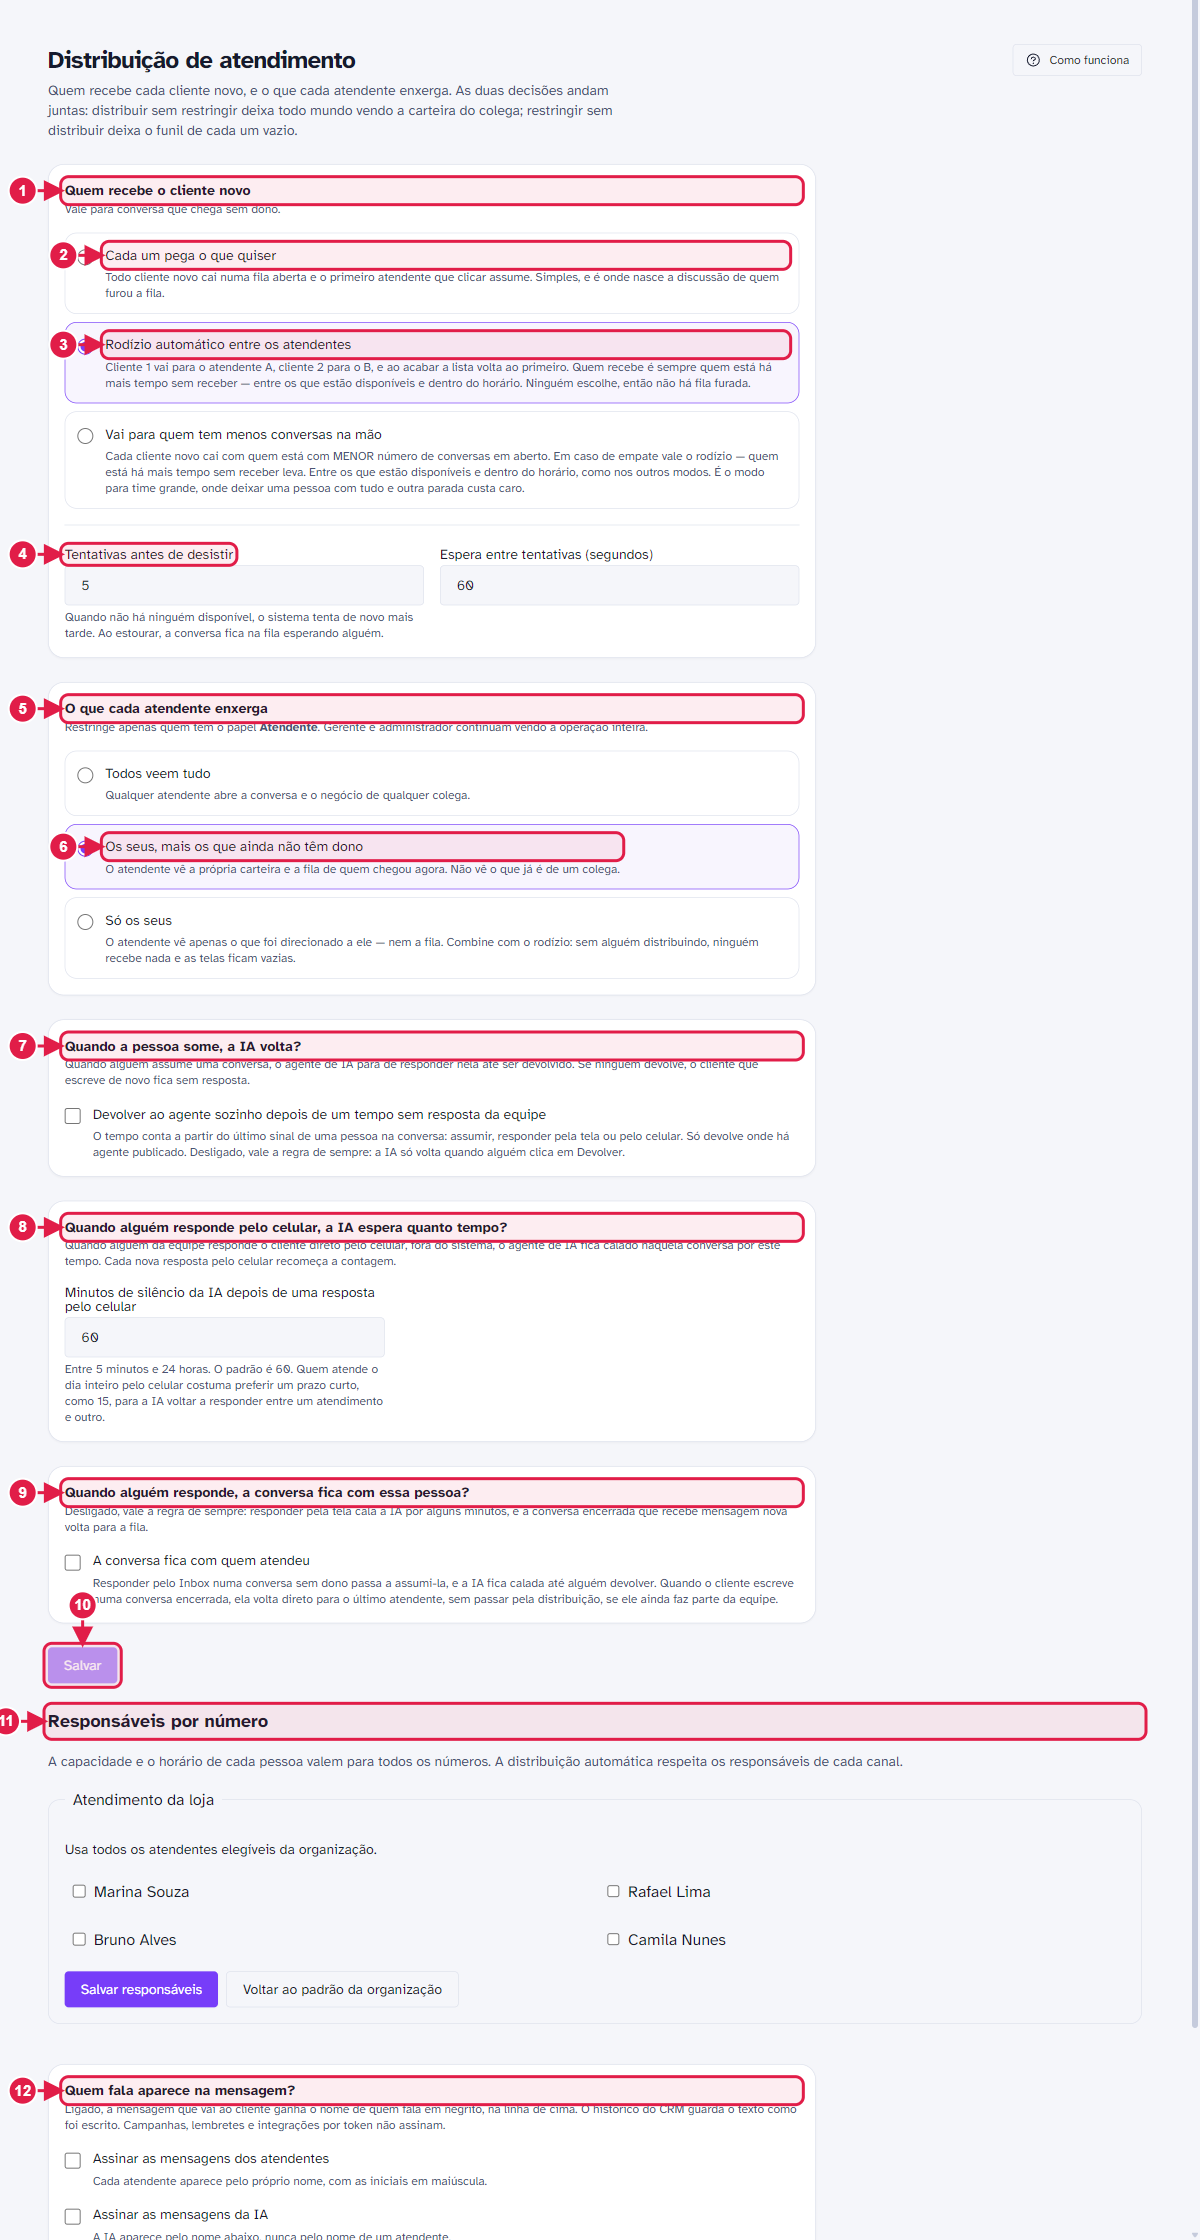
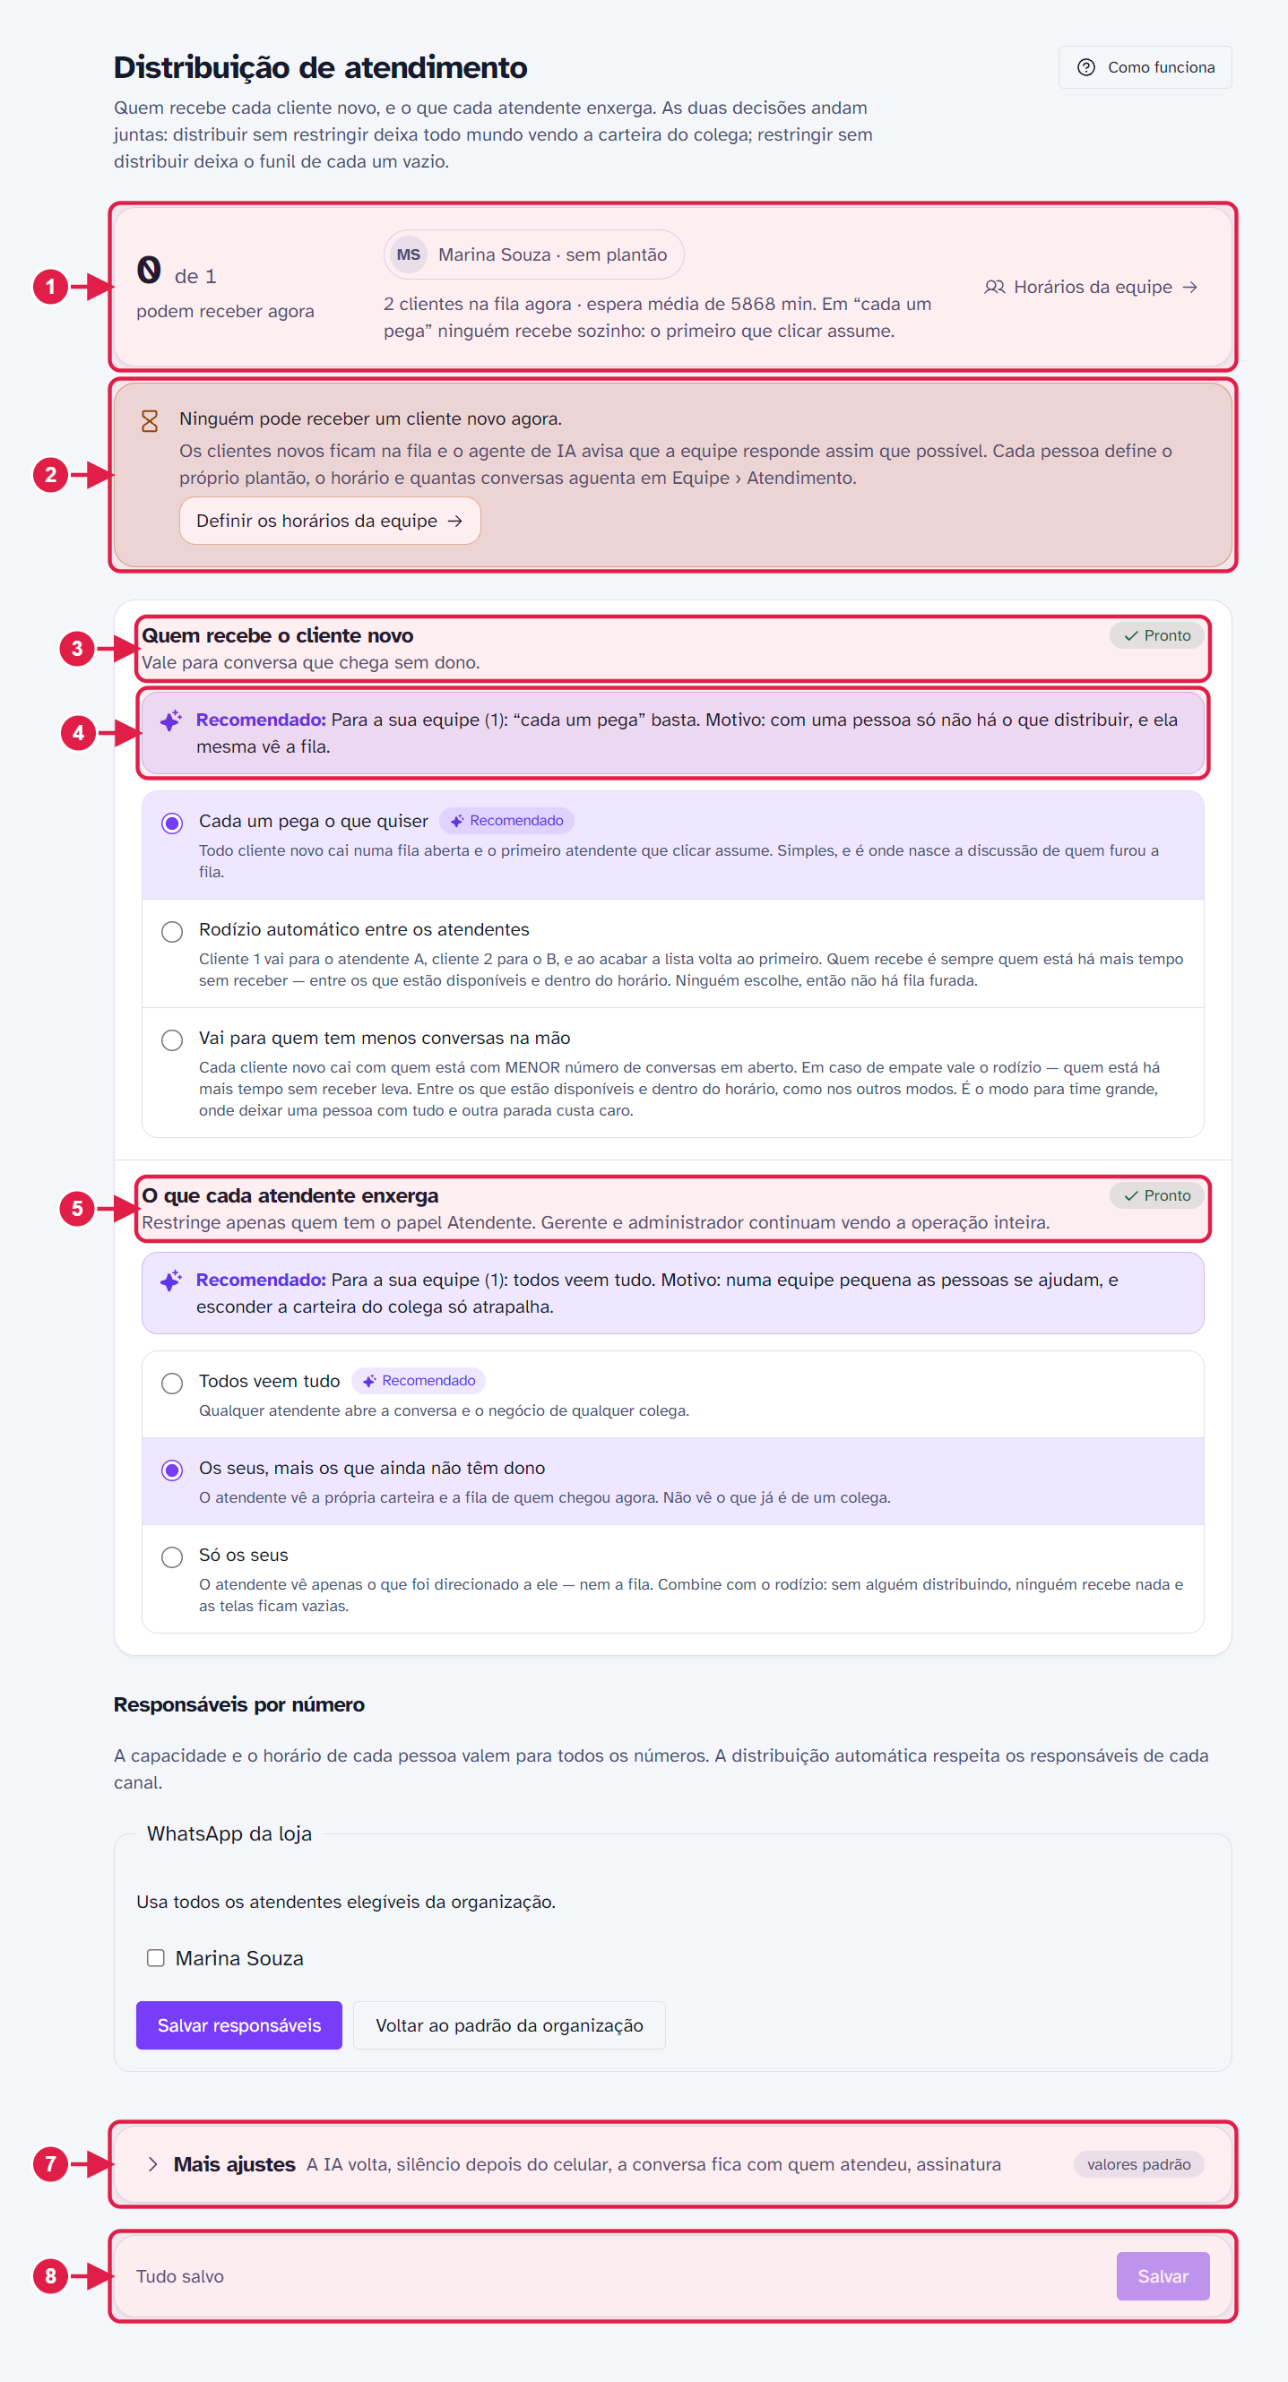
Manual: prints novos de Hub de IA, Novo agente e Distribuição, com legenda refeita
Prints refeitos pela tela real (organização de demonstração). Distribuição ganha legenda
de 8 marcas (faixa Quem recebe agora, aviso, as duas decisões, Responsáveis por número,
Mais ajustes e barra Salvar). A barra do Salvar não gruda no pé da tela (sticky sem espaço
no contêiner): o texto agora diz que ela fica no fim da tela.

diff --git a/docs/manual/conteudo/organizacao/distribuicao.html b/docs/manual/conteudo/organizacao/distribuicao.html
@@ -3,24 +3,19 @@
 <h2 id="visao-geral">Para que serve</h2>
 <p>Decide duas coisas que andam juntas: <strong>quem recebe</strong> cada cliente novo e <strong>o que cada atendente enxerga</strong>. Distribuir sem restringir deixa todo mundo vendo a carteira do colega; restringir sem distribuir deixa o funil de cada um vazio.</p>
 <figure class="print">
-  <img src="img/distribuicao.png" alt="Tela Distribuição de atendimento com os modos de distribuição, a visibilidade, a devolução à IA, o silêncio, a conversa que fica com quem atendeu, os responsáveis por número e a assinatura2" loading="lazy">
-  <figcaption>A tela inteira, de cima a baixo.</figcaption>
+  <img src="img/distribuicao.png" alt="Tela Distribuição de atendimento, de cima a baixo: a faixa Quem recebe agora, o aviso amarelo, a decisão Quem recebe o cliente novo com a linha Recomendado, a decisão O que cada atendente enxerga, os Responsáveis por número, o bloco Mais ajustes e a barra Salvar, numerados de 1 a 8" loading="lazy">
+  <figcaption>A tela inteira, de cima a baixo, numa organização com uma pessoa na equipe.</figcaption>
 </figure>
 <ol class="legenda">
-  <li><strong>Quem recebe o cliente novo.</strong> Vale para conversa que chega sem dono.</li>
-  <li><strong>Cada um pega o que quiser</strong> (<code>manual</code>, o padrão).</li>
-  <li><strong>Rodízio automático entre os atendentes</strong> (<code>round_robin</code>). A captura mostra este modo escolhido.</li>
-  <li><strong>Tentativas antes de desistir</strong> (aparecem nos modos automáticos).</li>
-  <li><strong>O que cada atendente enxerga.</strong></li>
-  <li><strong>Os seus, mais os que ainda não têm dono</strong> (o padrão do produto).</li>
-  <li><strong>Quando a pessoa some, a IA volta?</strong></li>
-  <li><strong>Quando alguém responde pelo celular, a IA espera quanto tempo?</strong></li>
-  <li><strong>Quando alguém responde, a conversa fica com essa pessoa?</strong></li>
-  <li><strong>Salvar.</strong> Um único botão para os cinco cartões de cima.</li>
-  <li><strong>Responsáveis por número.</strong></li>
-  <li><strong>Quem fala aparece na mensagem?</strong></li>
+  <li><strong>A faixa “Quem recebe agora”.</strong> Mostra quantas pessoas podem receber um cliente novo neste instante, uma pílula por pessoa e a fila. Só lê: nada é alterado ali. Veja <a href="#distribuicao--quem-recebe-agora">Quem recebe agora</a>.</li>
+  <li><strong>O aviso amarelo.</strong> Aparece quando ninguém pode receber agora; aqui, porque a única pessoa está sem plantão. O botão leva aos horários da equipe.</li>
+  <li><strong>Quem recebe o cliente novo.</strong> Vale para a conversa que chega sem dono. O selo <em>Pronto</em> (ou <em>Revisar</em>) diz se a decisão precisa de atenção.</li>
+  <li><strong>A recomendação.</strong> A linha <em>Recomendado</em> sugere o modo pelo tamanho da sua equipe e diz o motivo; aqui, com uma pessoa só, “cada um pega”. O modo sugerido também leva o selo <em>Recomendado</em>.</li>
+  <li><strong>O que cada atendente enxerga.</strong> A segunda decisão, com o próprio selo e a própria recomendação. Restringe só quem tem o papel Atendente.</li>
+  <li><strong>Responsáveis por número.</strong> Por número de WhatsApp, quem pode receber; <span class="ui">Voltar ao padrão da organização</span> desfaz a escolha daquele número.</li>
+  <li><strong>Mais ajustes.</strong> Bloco recolhido: quando a IA volta, o silêncio depois que alguém responde pelo celular, se a conversa fica com quem atendeu e a assinatura. O selo <em>valores padrão</em> avisa que nenhum deles foi mexido.</li>
+  <li><strong>A barra do Salvar.</strong> Um único botão para as duas decisões e para os ajustes. Fica no fim da tela: depois de mexer lá em cima, role até o fim para salvar. Diz <em>Tudo salvo</em> quando não há nada pendente.</li>
 </ol>
-<aside class="nota info"><strong>A tela foi reorganizada depois deste print.</strong><p>A ordem de cima para baixo, hoje, é: a faixa <em>Quem recebe agora</em>, as duas decisões (<em>Quem recebe o cliente novo</em> e <em>O que cada atendente enxerga</em>, num painel só), os <em>Responsáveis por número</em>, o bloco recolhido <em>Mais ajustes</em> e, grudada no pé da tela, a barra com o <span class="ui">Salvar</span>. Os textos e as opções descritos nesta página continuam valendo; o que mudou de lugar está explicado a seguir.</p></aside>
 
 <h2 id="quem-recebe-agora">Quem recebe agora</h2>
 <p>No alto da tela, uma faixa mostra <strong>o que a distribuição entregaria neste instante</strong>, com as mesmas regras que o sistema usa de verdade. Ela só lê: nada é alterado por ali.</p>
@@ -74,7 +69,7 @@
   <li><strong>A conversa fica com quem atendeu</strong> (padrão desligado). Ligada: responder pelo Inbox numa conversa sem dono passa a assumi-la, e a IA fica calada até alguém devolver; e a conversa encerrada que recebe mensagem volta direto para o último atendente (se ainda é da equipe), sem passar pela distribuição. Desligada: responder pela tela cala a IA por alguns minutos e a conversa encerrada volta para a fila.</li>
 </ul>
 <h3 id="salvar">Salvar</h3>
-<p>Há <strong>um único botão</strong> <span class="ui">Salvar</span>, numa barra grudada no pé da tela, que grava de uma vez as duas decisões, os ajustes de “Mais ajustes” e a assinatura. Enquanto há mudança, a barra diz “Há mudanças não salvas.” e aparece o botão <span class="ui">Descartar alterações</span>, que volta ao que estava salvo; sem mudança, diz “Tudo salvo” e o <span class="ui">Salvar</span> fica desabilitado. Ao salvar, avisa “Distribuição de atendimento salva.” (e “Assinatura salva.”, se a assinatura mudou), e a faixa <em>Quem recebe agora</em> se atualiza. A distribuição fica na <a href="#auditoria">Auditoria</a> como <code>routing.config_changed</code>. Os <em>Responsáveis por número</em> <strong>não</strong> entram nesse botão: cada número tem o seu.</p>
+<p>Há <strong>um único botão</strong> <span class="ui">Salvar</span>, numa barra no fim da tela, que grava de uma vez as duas decisões, os ajustes de “Mais ajustes” e a assinatura. Enquanto há mudança, a barra diz “Há mudanças não salvas.” e aparece o botão <span class="ui">Descartar alterações</span>, que volta ao que estava salvo; sem mudança, diz “Tudo salvo” e o <span class="ui">Salvar</span> fica desabilitado. Ao salvar, avisa “Distribuição de atendimento salva.” (e “Assinatura salva.”, se a assinatura mudou), e a faixa <em>Quem recebe agora</em> se atualiza. A distribuição fica na <a href="#auditoria">Auditoria</a> como <code>routing.config_changed</code>. Os <em>Responsáveis por número</em> <strong>não</strong> entram nesse botão: cada número tem o seu.</p>
 
 <h2 id="responsaveis">Responsáveis por número</h2>
 <p>Este bloco fica entre as duas decisões e o <em>Mais ajustes</em>. A capacidade e o horário de cada pessoa valem para todos os números; aqui você diz <strong>quem pode receber conversas de cada número</strong> de WhatsApp. Cada canal mostra o estado: “Usa todos os atendentes elegíveis da organização.” (padrão), “Ninguém configurado — as conversas ficarão na fila.” ou “Somente as pessoas selecionadas recebem este número.”, com uma caixa por membro ativo. Os botões são <span class="ui">Salvar responsáveis</span> e <span class="ui">Voltar ao padrão da organização</span>. Sem canais, aparece “Conecte um número para escolher os responsáveis.” (link para <a href="#conexoes">Conexões</a>).</p>

diff --git a/docs/manual/conteudo/ia/agentes.html b/docs/manual/conteudo/ia/agentes.html
@@ -64,7 +64,7 @@
 <p>No alto do assistente há o botão <span class="ui">Prefiro o editor completo</span>. Ele abre o <strong>mesmo formulário do editor</strong> (aba Configuração, com todas as seções), mas sem as abas de Teste, Capacidades, Execuções, Histórico e Propostas, e <strong>leva junto o que você já respondeu</strong> no assistente. No sentido contrário, o editor tem o link <span class="ui">Prefere ser guiado? Abrir o assistente</span>.</p>
 <figure class="print">
   <img src="img/ia-agente-novo.png" alt="Tela Novo agente, o formulário de configuração com o botão Criar agente" loading="lazy">
-  <figcaption>A tela “Novo agente” do editor completo. O print é de antes de o formulário ser dividido em seções: veja a divisão atual em <a href="#agentes--editor">O editor do agente</a>.</figcaption>
+  <figcaption>A tela “Novo agente” do editor completo: o cartão <em>Comece por um modelo</em> no alto e, à esquerda, o índice das seções. Veja cada seção em <a href="#agentes--editor">O editor do agente</a>.</figcaption>
 </figure>
 <aside class="nota dica"><strong>Atalhos para criar mais rápido.</strong><p>No alto do editor completo há o cartão <em>Comece por um modelo</em> (Vendas, Suporte, Agendamento ou Atendimento) e, na seção <em>Personalidade</em>, o perfil guiado <em>Como ele se apresenta</em>. Veja <a href="#agente-perfil-e-modelos">Criar um agente pelo perfil e pelos modelos</a>. Para o agente conversar só sobre certos assuntos, veja <a href="#agente-restringir-assuntos">Restringir os assuntos do agente</a>.</p></aside>
 <ol class="passos">
